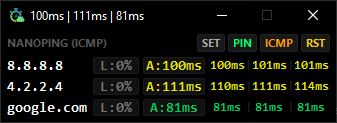
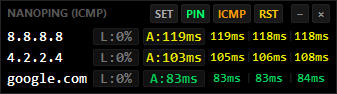
fix: handle rapid clicks on Settings controls and update screenshots (v1.3.1)

diff --git a/src/ui/settings_win.rs b/src/ui/settings_win.rs
@@ -33,6 +33,7 @@ use crate::ui::win_util::{
 const ES_CENTER: u32 = 0x0001;
 const ES_AUTOHSCROLL: u32 = 0x0080;
 const EN_CHANGE_CODE: u32 = 0x0300;
+const BN_DOUBLECLICKED_CODE: u32 = 5;
 const SS_LEFT: u32 = 0x0000;
 const SS_CENTERIMAGE: u32 = 0x0200;
 const ODS_SELECTED: u32 = 0x0001;
@@ -1084,7 +1085,9 @@ unsafe extern "system" fn settings_wnd_proc(
             let code = ((wparam >> 16) & 0xFFFF) as u32;
             if code == EN_CHANGE_CODE {
                 state.emit_live_preview();
-            } else if code == BN_CLICKED {
+            } else if code == BN_CLICKED
+                || (code == BN_DOUBLECLICKED_CODE && id != ID_OPEN_INI_BTN)
+            {
                 match id {
                     ID_ABOUT_BTN => {
                         show_about_dialog(hwnd);
